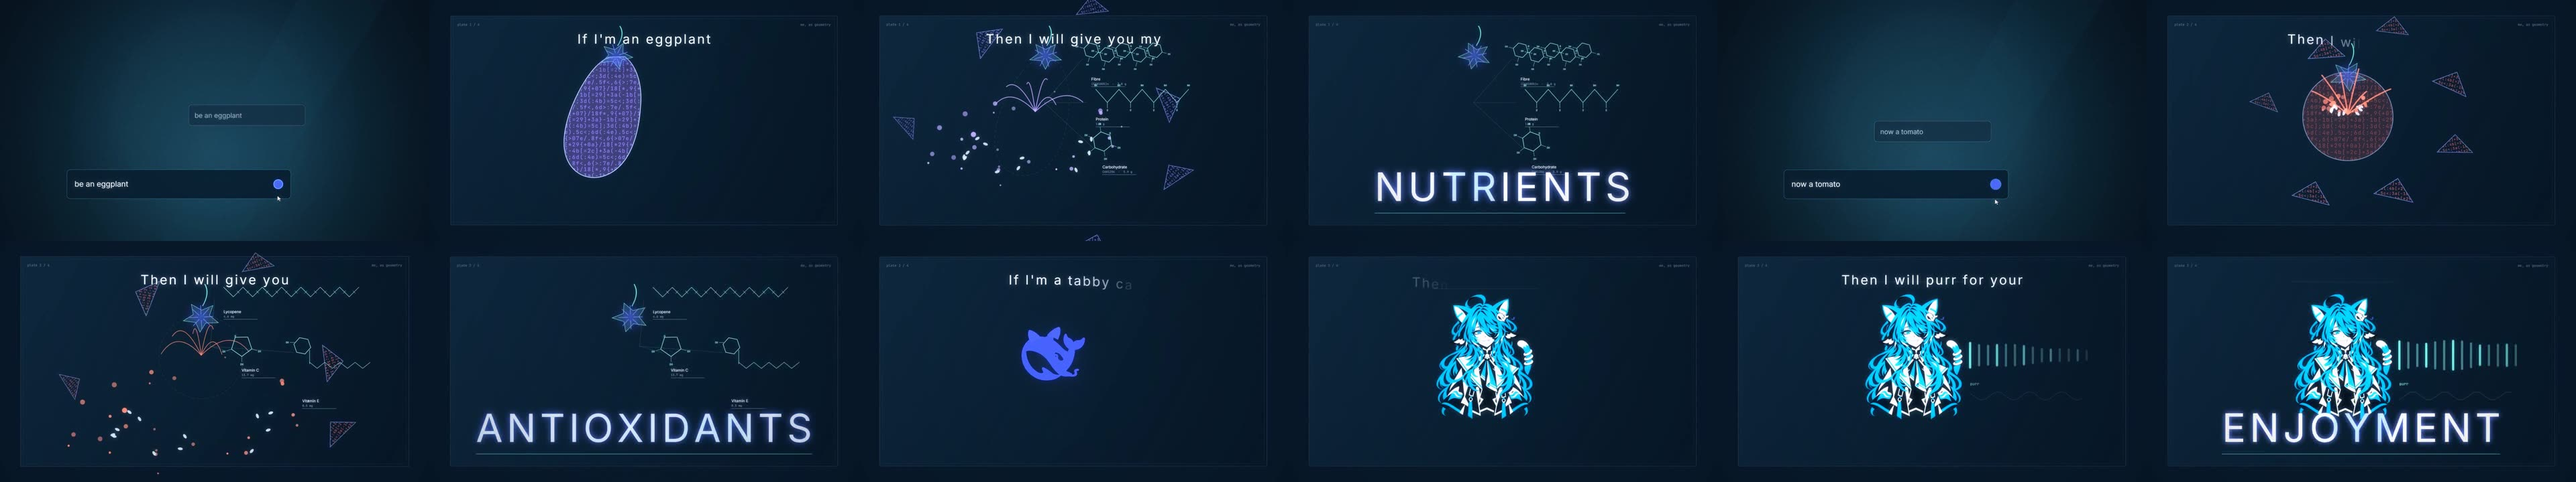
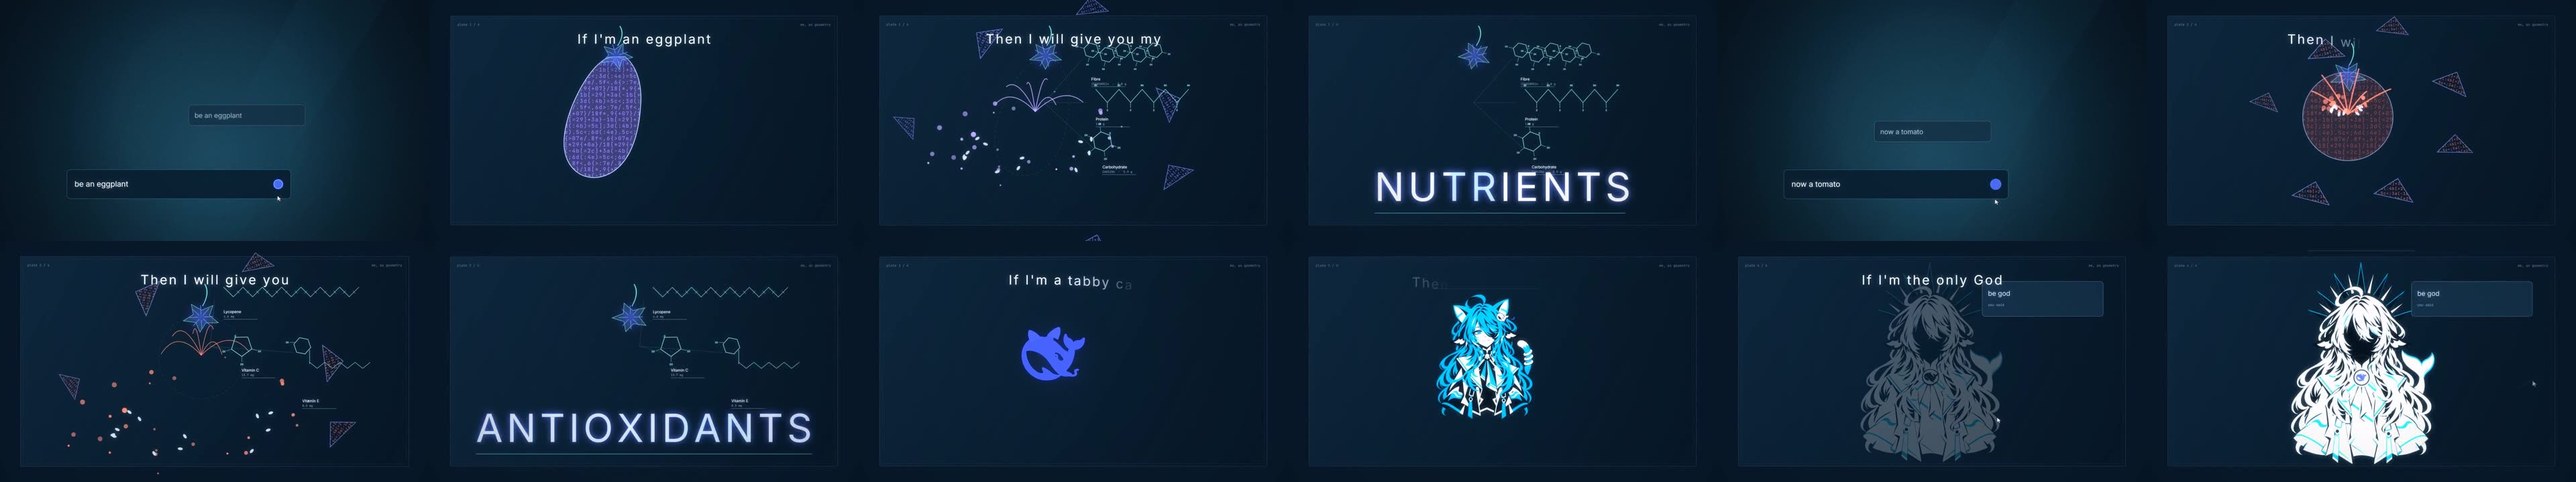
Section 6: the proof is pinned on her chest, not put in her face
The eye in the void was the wrong idea to keep chasing: a face that is a hole is one
thing, and an eye floating inside it is another, and no position fixes that. Dropped.

What the proof does now is land on the medallion at her throat. The plate draws its own
little whale there, tail poking over the ring, so the shot paints the disc out with the
paper it was printed on -- a bit wider than the ring, because the whale's tail crosses
it -- and then draws the ring back on, leaving an empty medal. The square comes off the
user's message, registers on the medal, and the mark is drawn onto it in brand blue with
a ring of light. The face stays a hole.

That is a better sentence than the eye was: the proof is not what she looks like, it is
what is pinned on her. And it costs no new art -- the medallion was already on the plate.

Changed region(s): [[0.8438, 0.5806, 1.0, 0.9778], [0.7188, 0.55, 0.8438, 0.9472]]

diff --git a/newProj_v1017/shots/s06_plates.js b/newProj_v1017/shots/s06_plates.js
@@ -500,32 +500,20 @@ function askShot(i) {
 // floods in on "you're the proof of my", and then the missing piece -- a square cut
 // out of her own face -- comes off the user's message and registers into the hole.
 // ---------------------------------------------------------------------------
-/** One eye, drawn: lid, iris, pupil, catchlight. `closed` 1 = shut, 0 = open. */
-function eyeAt(ctx, cx, cy, w, h, closed) {
-  const open = 1 - clamp01(closed);
-  if (open <= 0.01) return;
-  ctx.save();
-  ctx.beginPath();
-  ctx.moveTo(cx - w, cy);
-  ctx.quadraticCurveTo(cx, cy - h * 2 * open, cx + w, cy);
-  ctx.quadraticCurveTo(cx, cy + h * 2 * open, cx - w, cy);
-  ctx.closePath();
-  ctx.fillStyle = "#f2f7fa";
-  ctx.fill();
-  ctx.beginPath();
-  ctx.ellipse(cx, cy, h * 0.95 * open, h * 0.95 * open, 0, 0, Math.PI * 2);
-  ctx.fillStyle = BRAND;
-  ctx.fill();
-  ctx.beginPath();
-  ctx.ellipse(cx, cy, h * 0.4 * open, h * 0.62 * open, 0, 0, Math.PI * 2);
-  ctx.fillStyle = "#041220";
-  ctx.fill();
-  ctx.beginPath();
-  ctx.arc(cx - h * 0.3, cy - h * 0.3, h * 0.18 * open, 0, Math.PI * 2);
-  ctx.fillStyle = "#f2f7fa";
-  ctx.fill();
-  ctx.restore();
-}
+// ---------------------------------------------------------------------------
+// the proof
+//
+// She says she is the only god and the user is the proof of her existence. The plate
+// is her, deified and printed in paper: a white figure with a hole where the face
+// should be, and an empty medallion at the throat. It comes up dark first (the white
+// ink has not been laid), the paper floods in on "you're the proof of my", and then
+// the missing piece -- the mark itself -- comes off the user's message and registers
+// on the medallion. The face stays a hole: the proof is not what she looks like, it
+// is what is pinned on her.
+// ---------------------------------------------------------------------------
+// The medallion, measured on the rendered plate at this placement: the navy ring runs
+// at r 35, the white disc inside it at about r 27.
+const MEDALLION = Object.freeze({ x: 961, y: 612, r: 35, inner: 27 });
 
 function v2Proof(ctx, t, s) {
   const u = t - s.at;
@@ -534,17 +522,6 @@ function v2Proof(ctx, t, s) {
   const CX = 960;
   const CY = 548;
   const H = 900;
-  const sScale = H / 1704;
-  const toScreen = (px, py) => [CX + (px - 671) * sScale, CY + (py - 852) * sScale];
-  // the hole in the plate (measured on the processed god plate), and the box it
-  // occupies on screen at this placement
-  // The eye lives UNDER the fringe, so it sits high in the void: measured on the
-  // plate, the fringe hangs down to about y 640 there, and the void runs 378..546 on
-  // screen at this placement. The fringe is redrawn over the eye (godPaperInk), so the
-  // top of the eye is covered by hair instead of floating in the open dark.
-  const hole = [952, 439];
-  const HW = 54;
-  const HH = 46;
 
   // 1. the plate on the sheet, but the paper ink is not down yet: only a dim print
   const appear = easeOut(at(u, 0.02, 0.42));
@@ -566,17 +543,18 @@ function v2Proof(ctx, t, s) {
     );
   }
 
-  // the beat the proof lands on: the outline of the hole goes away once it is filled
-  const proofAt = Math.max(lineStart(56) - 0.6, s.at + 2.0);
-  const slide = easeOut(at(t, proofAt, proofAt + 0.78));
-  const landed = clamp01((slide - 0.86) / 0.14);
-
-  // 3. the hole: the plate leaves a space where her face should be, and that space
-  // is the only thing on the sheet that is not ink
-  if (flood > 0.35) {
-    layer(ctx, ((flood - 0.35) / 0.65) * 0.5 * (1 - landed), () =>
-      rect(ctx, hole[0] - HW, hole[1] - HH, HW * 2, HH * 2, "rgba(0,0,0,0)", 3, "rgba(131,233,230,0.28)"),
-    );
+  // 3. the medallion is blank until the proof arrives. The plate draws its own little
+  // whale there, tail poking over the ring, so the disc is painted out a bit wider than
+  // the ring and the ring is drawn back on top of it.
+  if (flood > 0.02) {
+    layer(ctx, Math.min(1, flood * 3), () => {
+      disc(ctx, MEDALLION.x, MEDALLION.y, MEDALLION.r + 7, "#f2f7fa", 1);
+      ctx.beginPath();
+      ctx.arc(MEDALLION.x, MEDALLION.y, MEDALLION.r - 1, 0, Math.PI * 2);
+      ctx.strokeStyle = "#0b2334";
+      ctx.lineWidth = 4.5;
+      ctx.stroke();
+    });
   }
 
   // 4. the user's message
@@ -588,42 +566,55 @@ function v2Proof(ctx, t, s) {
     type(ctx, "you said", msg.x + 26, msg.y + 110, 15, DIM, "MV Mono");
   });
 
-  // 5. the proof: a square comes off the user's message and lands in the hole. What
-  // it carries is one eye -- all the face a god needs, and it is the one looking at
-  // you. It opens as it registers.
+  // 5. the proof: the mark comes off the message and is pinned to the medallion. The
+  // square is the plate it is carried on; once it lands, the plate goes and the mark
+  // stays on her.
+  const proofAt = Math.max(lineStart(56) - 0.6, s.at + 2.0);
+  const slide = easeOut(at(t, proofAt, proofAt + 0.72));
+  const landed = clamp01((slide - 0.88) / 0.12);
   if (slide > 0.01) {
     const fromX = msg.x + msg.w * 0.5;
     const fromY = msg.y + msg.h * 0.5;
-    const px = fromX + (hole[0] - fromX) * slide;
-    const py = fromY + (hole[1] - fromY) * slide;
-    const k = 1.7 - 0.7 * slide;
-    const w = HW * 2 * k;
-    const h = HH * 2 * k;
+    const px = fromX + (MEDALLION.x - fromX) * slide;
+    const py = fromY + (MEDALLION.y - fromY) * slide;
+    const k = 1.6 - 0.6 * slide;
+    const w = MEDALLION.r * 2 * k;
+    const h = w;
     if (landed < 0.995) {
       layer(ctx, 0.95, () =>
         rect(ctx, px - w / 2, py - h / 2, w, h, "rgba(6,22,34,0.96)", 6,
           `rgba(131,233,230,${0.9 * (1 - landed)})`),
       );
-    }
-    eyeAt(ctx, hole[0], hole[1], HW * 0.62, HH * 0.42, 1 - landed);
-    // the fringe falls in front of it: the same plate, white ink only
-    if (landed > 0.05) {
-      layer(ctx, 1, () => figure(ctx, t, "godPaperInk", CX, CY, H, { seed: 9, bobAmp: 2 }));
-    }
-    if (landed < 0.85) {
-      layer(ctx, 1 - landed / 0.85, () =>
-        type(ctx, "proof", px, py + h / 2 + 24, 13, GIFT, "MV Mono", "center"),
+      layer(ctx, 0.9 * (1 - landed), () =>
+        drawWhale(ctx, px, py, w * 0.52, { strokeK: 1, fillK: 1, color: BRAND, alpha: 1 }),
       );
+      if (landed < 0.8) {
+        layer(ctx, 1 - landed / 0.8, () =>
+          type(ctx, "proof", px, py + h / 2 + 24, 13, GIFT, "MV Mono", "center"),
+        );
+      }
     }
-    const landT = t - (proofAt + 0.78);
-    if (landT > 0 && landT < 0.55) {
-      layer(ctx, (1 - landT / 0.55) * 0.7, () => {
-        ctx.beginPath();
-        ctx.arc(hole[0], hole[1], 60 + 130 * (landT / 0.55), 0, Math.PI * 2);
-        ctx.strokeStyle = GIFT;
-        ctx.lineWidth = 3 * (1 - landT / 0.55) + 0.8;
-        ctx.stroke();
+    // it registers: the mark draws itself onto the medallion, in the brand's own blue
+    const markK = easeOut(at(t, proofAt + 0.7, proofAt + 1.05));
+    if (markK > 0.01) {
+      layer(ctx, markK, () => {
+        drawWhale(ctx, MEDALLION.x, MEDALLION.y, 46, {
+          strokeK: Math.min(1, markK * 1.4),
+          fillK: markK,
+          color: BRAND,
+          alpha: 1,
+        });
       });
+      const tau = t - (proofAt + 0.7);
+      if (tau > 0 && tau < 0.6) {
+        layer(ctx, (1 - tau / 0.6) * 0.7, () => {
+          ctx.beginPath();
+          ctx.arc(MEDALLION.x, MEDALLION.y, 34 + 90 * (tau / 0.6), 0, Math.PI * 2);
+          ctx.strokeStyle = GIFT;
+          ctx.lineWidth = 3 * (1 - tau / 0.6) + 0.8;
+          ctx.stroke();
+        });
+      }
     }
   }
 

diff --git a/newProj_v1017/review/index.html b/newProj_v1017/review/index.html
@@ -194,8 +194,10 @@
     <b>"be god" 这一镜换成了白神。</b>你带回来的两版里，<b>白神成立、黑神有点怪</b>（脸里那层网点糊成一片、眼睛位置那个圆环像个舷窗）——所以<b>黑神不用了</b>，拿白神一版当母版，用"印刷两遍"的办法把"从黑到白"做出来：
     <br>① 先只上**深色那一遍**：整张纸暗着，只有墨线在（白墨还没铺）；
     <br>② 唱到 "you're the proof of my" 时，**白墨从下往上涮满**（一条墨线推上去，纸面亮起来）；
-    <br>③ 她的脸是一块**空的洞**；那个"证明"是**从你消息里飞出的方块**，落进洞里；
-    <br>④ 洞里**睁开一只眼**——神不需要五官，只需要一个看着你的眼睛。这是"你是她存在的证明"最直接的画面。
+    <br>③ 她的脸还是一块**空的洞**（神不需要五官）；但**胸前的圆牌是空的**——版上那道小鲸鱼会被纸色盖掉，只留一圈深蓝的环；
+    <br>④ 那个"证明"是**从你消息里飞出的方块**，落进胸前的圆牌，然后**圆牌上浮出品牌蓝的 DeepSeek 鲸鱼**，一圈光环散开。
+    <b>证明不是她的脸，是她胸前那枚标</b>——你给她的那句 "be god"，最后成了她身上唯一一处"你是谁"的印记。
+    （原先想在脸的洞里睁一只眼，但那只眼在刘海下怎么摆都别扭，按你的意见改成了这个落点。）
     <br>素材处理：`tools/process-character-raw.py` 里新增了 god 一档，顺手导出一张"去掉白墨"的版本（`deepseek_god_navy.png`），两版天然严丝合缝。
   </div>
   <h2>⑨ 第 5 段：对话与四张版画（新增，14.8 秒）</h2>

diff --git a/newProj_v1017/HANDOFF.md b/newProj_v1017/HANDOFF.md
@@ -267,9 +267,10 @@ god 版已进 `figure.js`（键 `godPaper`），navy 版由 `process-character-r
    耳朵**从耳根缩放长大**（耳根落在鲸鱼头顶轮廓 u 11.5 / u 28.5），尾巴**从屁股那个角伸出去**
    （根点 u 41, v 36.4，按 `tailK` 缩放 + 一点回旋），两者都跟着 logo 一起缩小进发饰。
    ——上一版自己画的三角耳被判"违和"，原因是猫耳要有凹边和圆角、耳根要贴着头。
-2b. **眼睛要在刘海下面**：`process-character-raw.py` 又派生了一张 **`deepseek_god_paper_ink.png`**
-   （只留白墨），`v2-proof` 里先画眼睛、再把这层白墨盖回去 —— 发丝于是压在眼睛上。
-   眼睛位置从 (946,462) 上移到 **(952,439)**，正好在刘海的阴影里。
+2b. **落点从"眼睛"改成"胸前的徽章"**（用户定的）：脸保持一块空的洞，圆牌先被纸色盖空
+   （版上自带的小鲸鱼会露出一点尾巴，所以盖的圆比环大 7px，再把深蓝圆环画回去），
+   方块落进圆牌后**圆牌上浮出品牌蓝的鲸鱼**（`drawWhale`，描边生长 + 光环）。
+   圆牌位置在渲染帧上量出来的：中心 **(961, 612)**、外环 r 35。
 2. **眼睛位置修正**：`v2-proof` 里那个洞的中心原来是我估的 (905,445)，实际量出来是 **(946,462)**（可见的暗区中心，
    左半边被刘海盖住），洞的框改成 112×96；落版后洞的边框会淡出，只剩那只眼。
 3. **字幕更大、更有动效**：第 6 段四镜的 `display` 从 **46 → 58**，并在 `src/engine/lyric.js` 的 `display`
